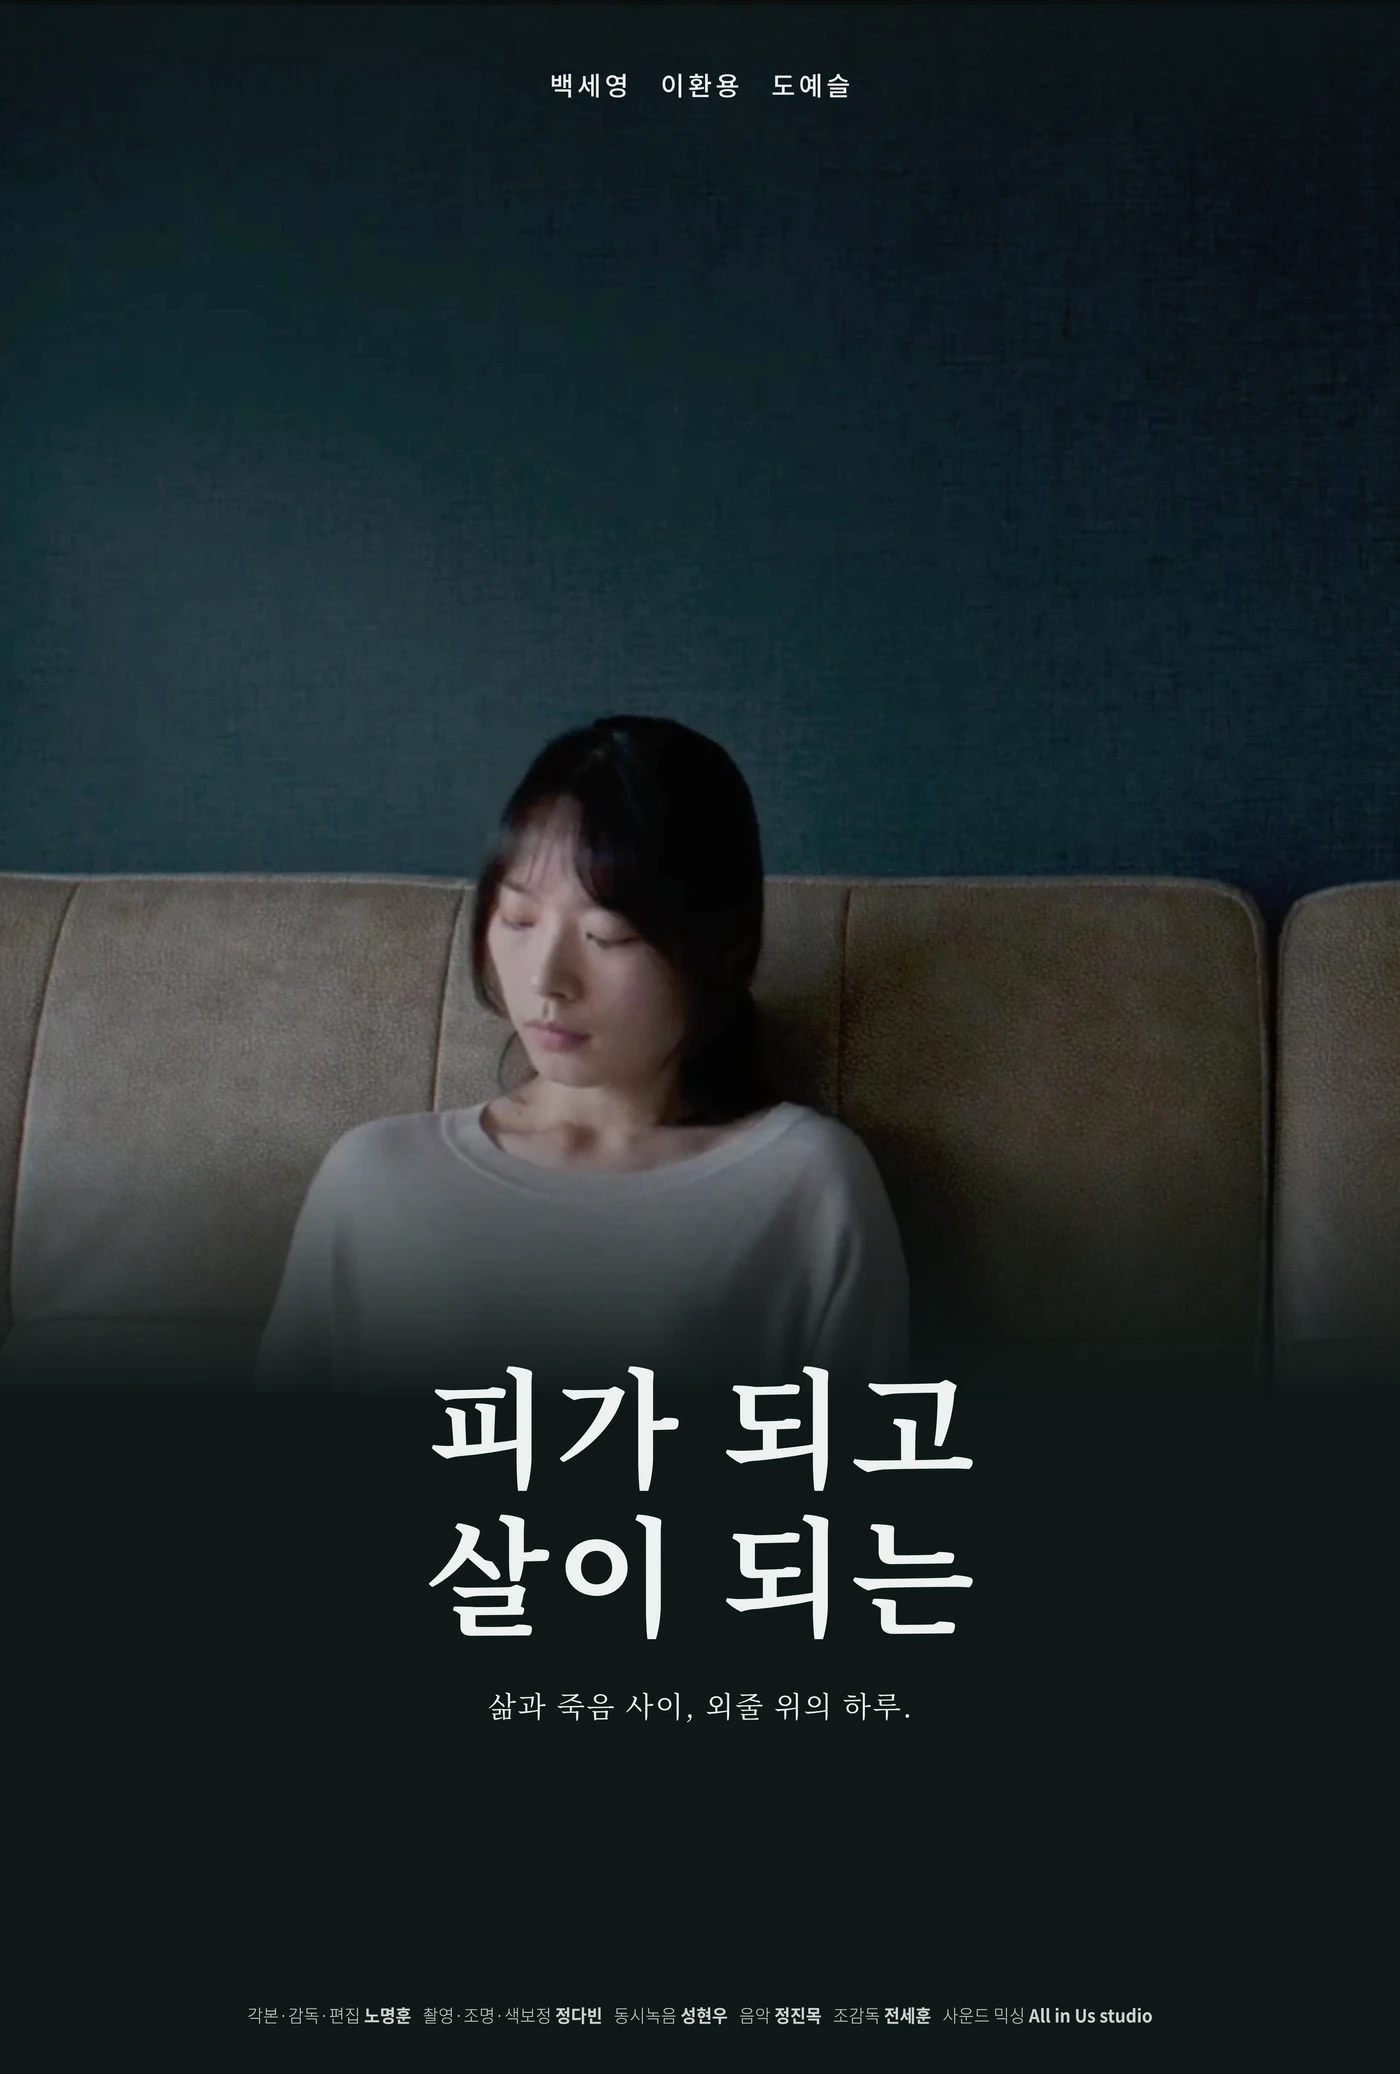
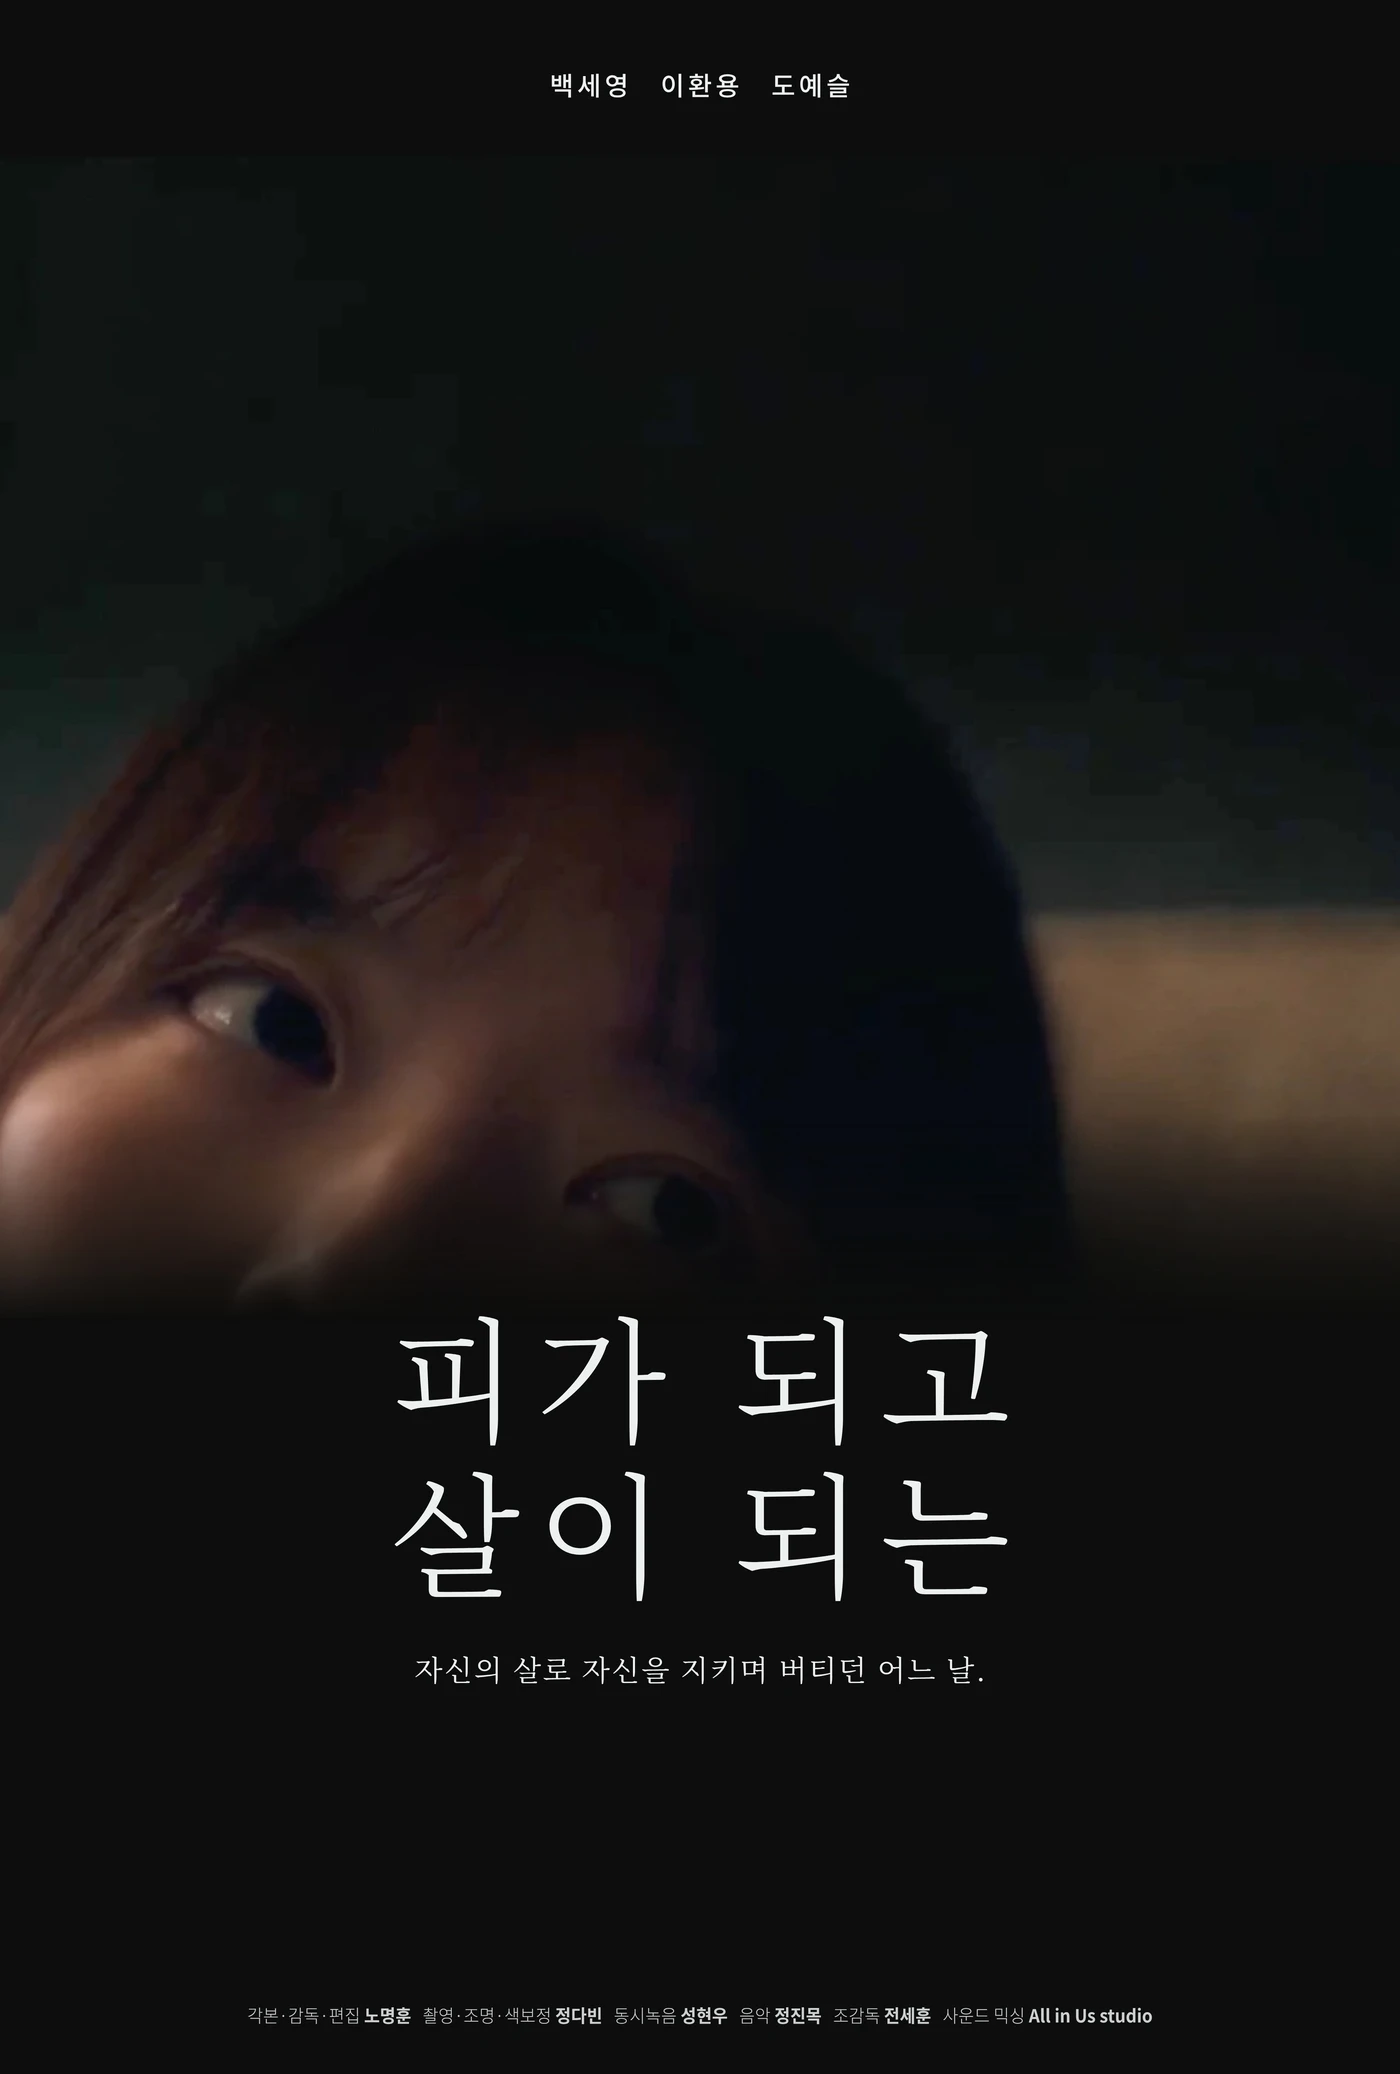
피가 되고 살이 되는 포스터 교체
Claude-Session: https://claude.ai/code/session_01YYRb2KB3eF6Q3RKez6YmkW

diff --git a/index.html b/index.html
@@ -2480,7 +2480,7 @@ const roleHTML=L=>L.map(roleTag).join('<span class="rl-sep"> · </span>');
 const roleEn=f=>roleHTML(roleList(f[2]));
 const roleShort=r=>[/Direct/.test(r)&&"Dir",/DOP/.test(r)&&"DOP",/Color/.test(r)&&"Color"].filter(Boolean).join(" + ");
 /* 로컬 원본 이미지 */
-const W=(k,t,n)=>`img/w/${k}/${t}${n}.webp${t==="p"?"?v=8":""}`;
+const W=(k,t,n)=>`img/w/${k}/${t}${n}.webp${t==="p"?"?v=9":""}`;
 const has=(k,t)=>MEDIA[k]&&MEDIA[k][t]&&MEDIA[k][t].length;
 const cover=(k,fallback)=>(typeof HQS!=="undefined"&&HQS[k])?HQU(k,0):has(k,"s")?W(k,"s",0):fallback;
 const rnd=n=>Math.floor(Math.random()*n);
